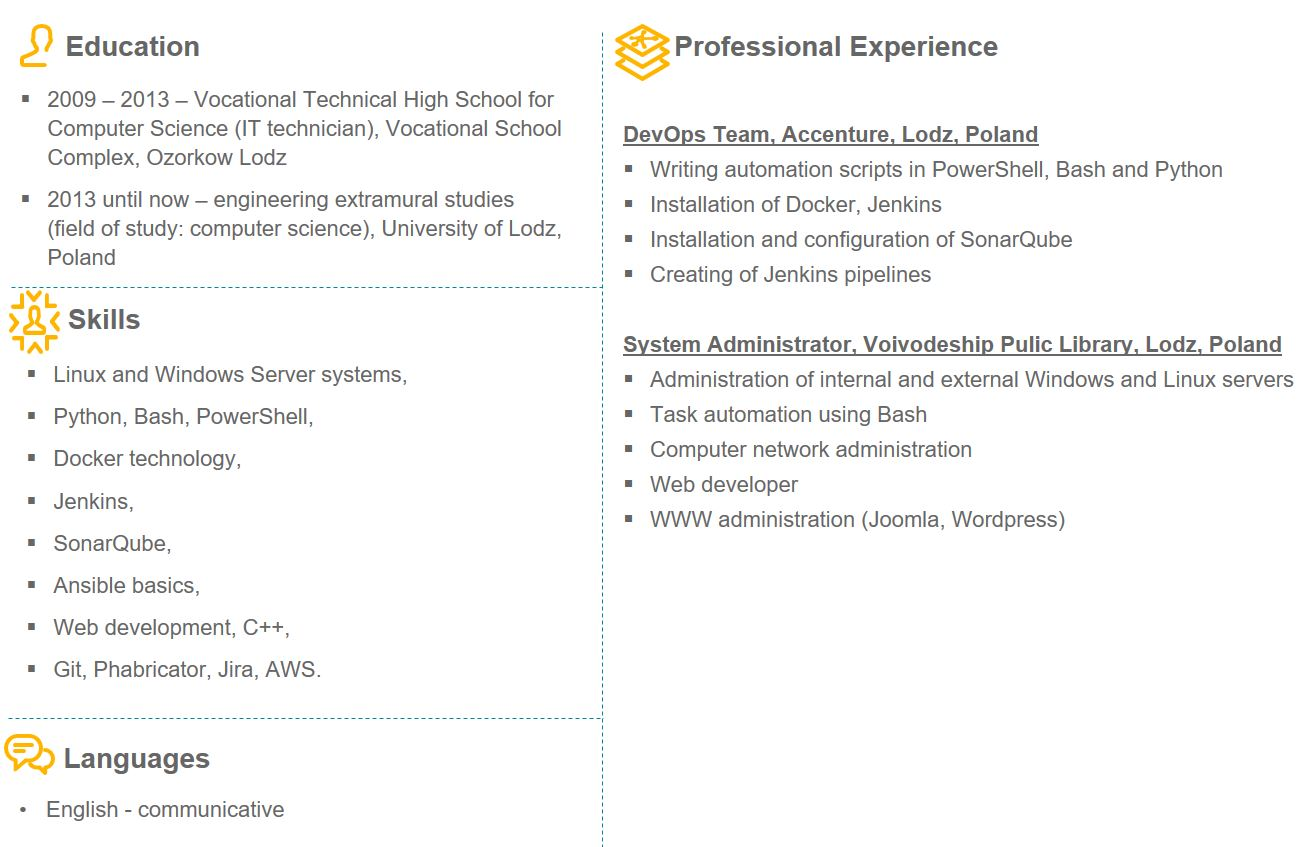
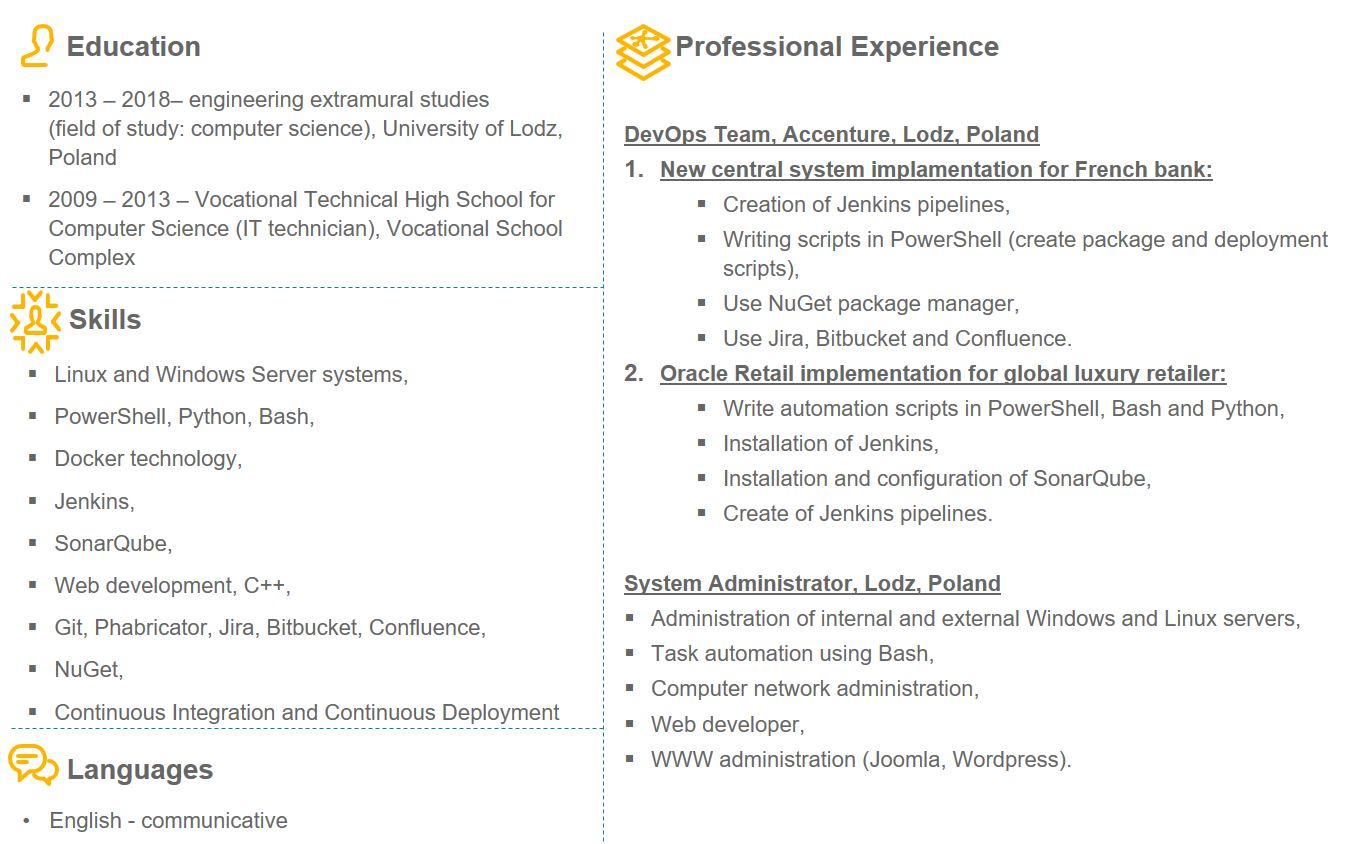
Update CVs

diff --git a/_posts/2018-09-20-people-03.md b/_posts/2018-09-20-people-03.md
@@ -1,11 +1,11 @@
 ---
 title: WIKTOR 
 modal-id: people-3
-description: curriculum
+description: Application Development Specialist
 image: img/portfolio/wiktor_cv.jpg
 thumbnail: assets/img/portfolio/w_thumb.jpg
 curriculum: true
-cv-info: false
+cv-info: true
 lodz: true
 ---
 
